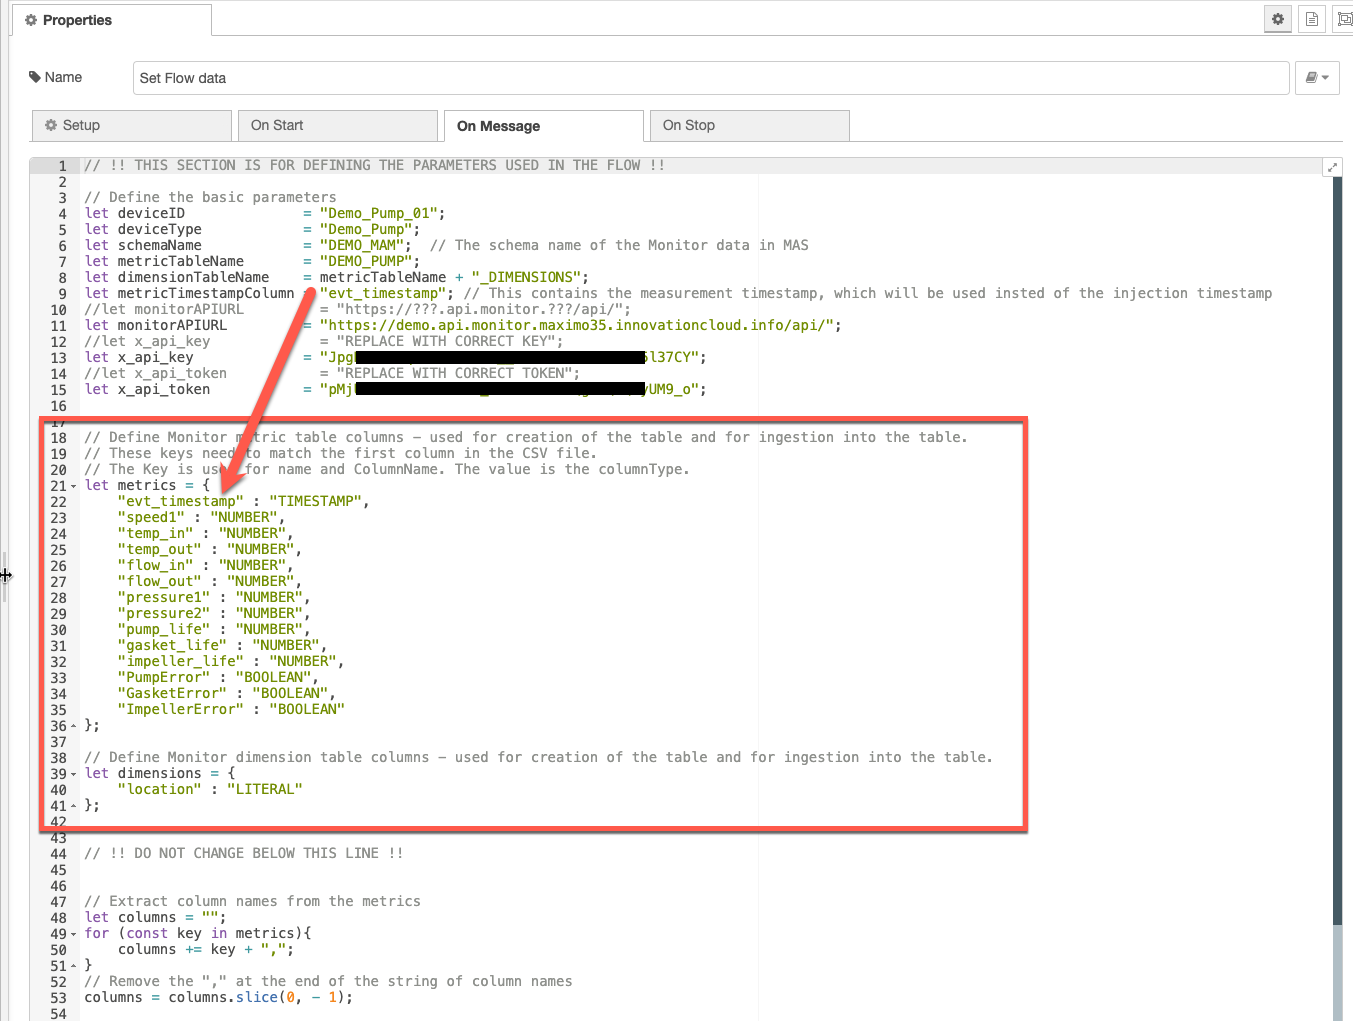
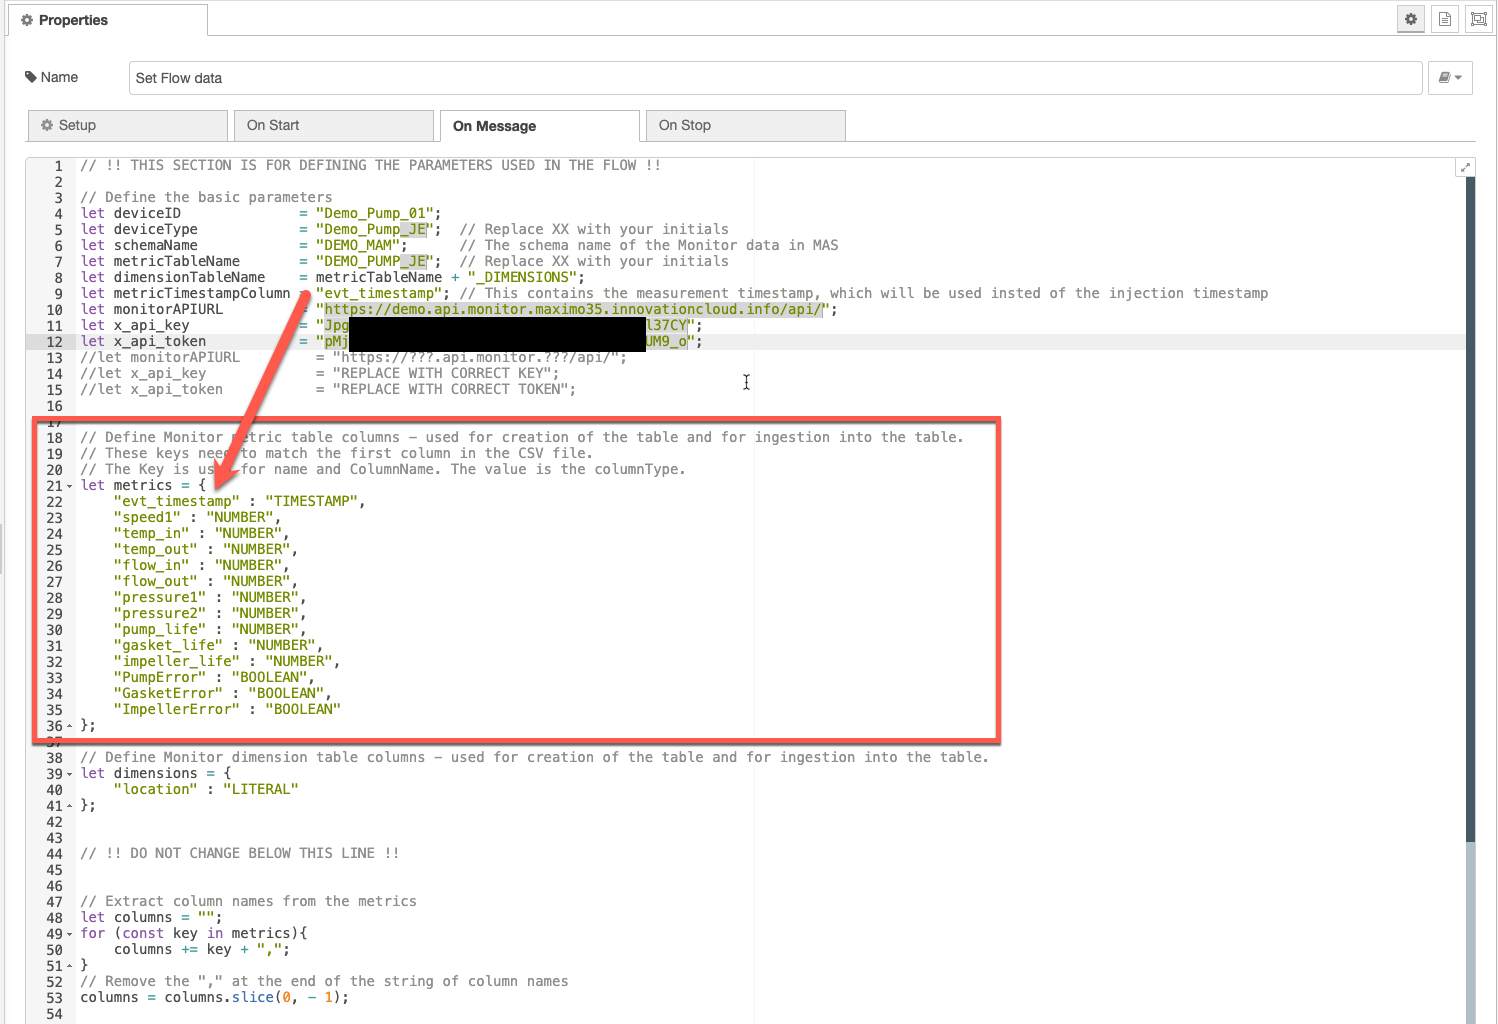
added initials to table and device type

diff --git a/MkDocs/monitor_csv_importer_8.6/docs/adjust_script.md b/MkDocs/monitor_csv_importer_8.6/docs/adjust_script.md
@@ -40,7 +40,8 @@ This section describes how to use the Monitor API to create the demo pump device
 1.  Open Node-RED in your browser if not done already.
 2.  Find and open the "Set Flow Data" node in Step 1.
 ![Find node](/img/monitor_csv_importer_8.6/Adjust_01.png)</br></br>
-3.  Enter the Monitor API URL `monitorAPIURL` as well as the API Key `x_api_key` and API Token `x_api_token`. Press `Done`.
+3.  Enter the Monitor API URL `monitorAPIURL`, the API Key `x_api_key` and API Token `x_api_token`.</br>
+ Replace XX with your initials in line 5 and 7. Press `Done`.
 ![Enter credentials](/img/monitor_csv_importer_8.6/Adjust_02.png)</br>
 The metricTimestampColumn in the "Set Flow Data" function node tells Monitor which column should be used as timestamp, which is important when injecting historical data.</br>
 The metrics are already adjusted to contain the same columns as in Pump CSV data files that you will use later in the lab.</br></br>
